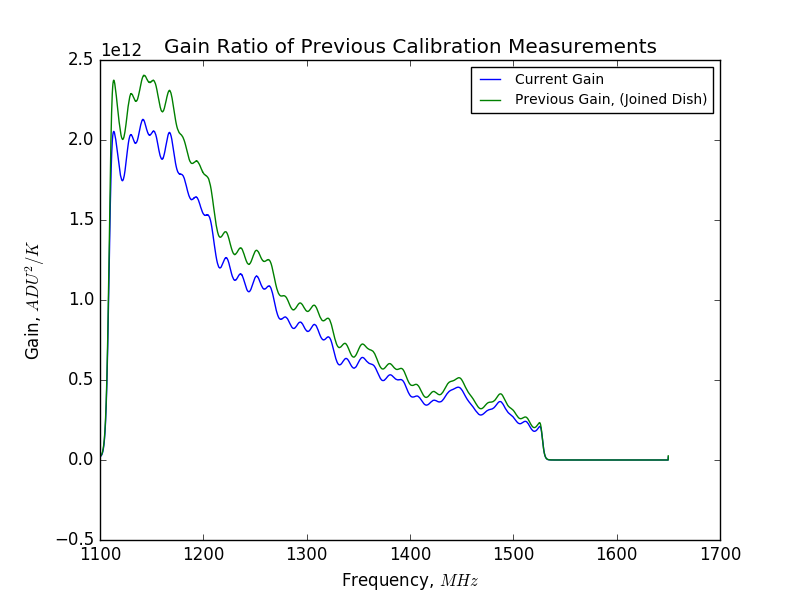
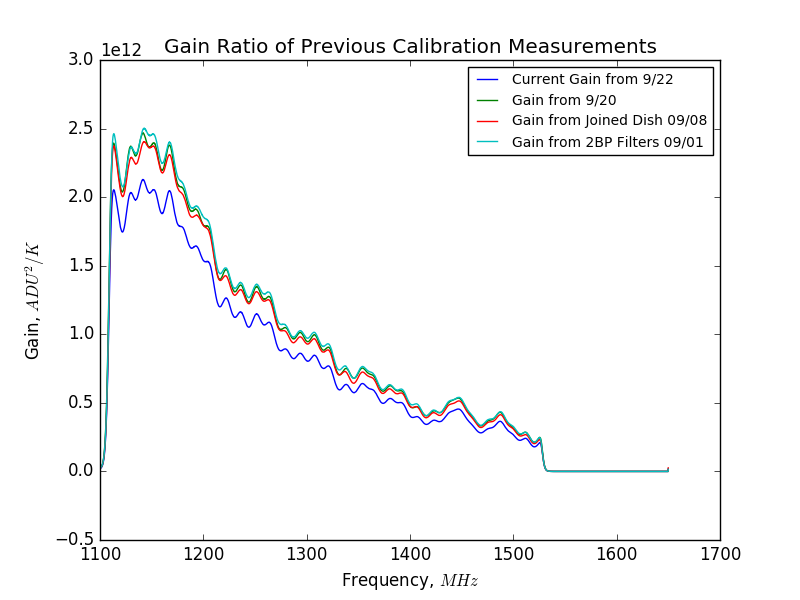
updated 09/25 posting

Changed region(s): [[0.0938, 0.12, 0.8438, 0.81], [0.5625, 0.12, 0.9062, 0.27], [0.0938, 0.09, 0.125, 0.12]]

diff --git a/logbook/postings/20170922_Calibration/index.md b/logbook/postings/20170922_Calibration/index.md
@@ -18,6 +18,12 @@ the system had likely changed. The test was performed in ~75 F weather, which
 corresponds to ~297 K. The spectrum was terminated at 297 K and 77 K with liquid
 nitrogen. 
 
+One possible explanation was a potential change in the DC voltage supplied to
+the amp chain. The voltage on the amplifiers was increased from 2.9V in previous
+tests to 3.0V by accident on 09/22. It was changed back later that day, to try
+to try and deduce if changing the amplifier voltage was what changed the power
+received by the OMT+Horn in the calivration test.
+
 ### Timeline:
 
 In the data from the 20th, we can observe the change in received power. The
@@ -61,7 +67,7 @@ cluttered...
 
 ### Calibrated Spectra:
 
-This is the uncalibrated spectrum from the 22nd:
+This is the calibrated spectrum from the 22nd:
 This spectra has been calibrated using the same approach as was described in
 previous [posting.](../20170906_sans_RFI_calibrated_spectrum/index.md)
 
@@ -69,6 +75,11 @@ previous [posting.](../20170906_sans_RFI_calibrated_spectrum/index.md)
 
 Here is the before and after, with spectra from the 20th and 22nd.
 ![cal2](BnAcal.png)
+
+It is important to point out that the temperature was specified as 297K instead
+of the previous 290K for the data from the 22nd.
+The noise floor increased a little, from the 20th to the 22nd, in part due to
+this temperature change.
 
 ### Ratio of the gain measurements:
 
@@ -79,9 +90,15 @@ which would explain the mystery factor of 3 discussed earlier.
 
 First is a plot of the gain arrays themselves:
 
+Note, the gain is inversely proportional to the temperature difference, however,
+the temperature change (297 instead of 290) from  9/22 data only accounts for
+part of its difference relative to the others.
+
 ![gain](gain.png)
 
 And here is the ratio of these gain arrays:
 
+
 ![ratio](gainratio.png)
+
 
